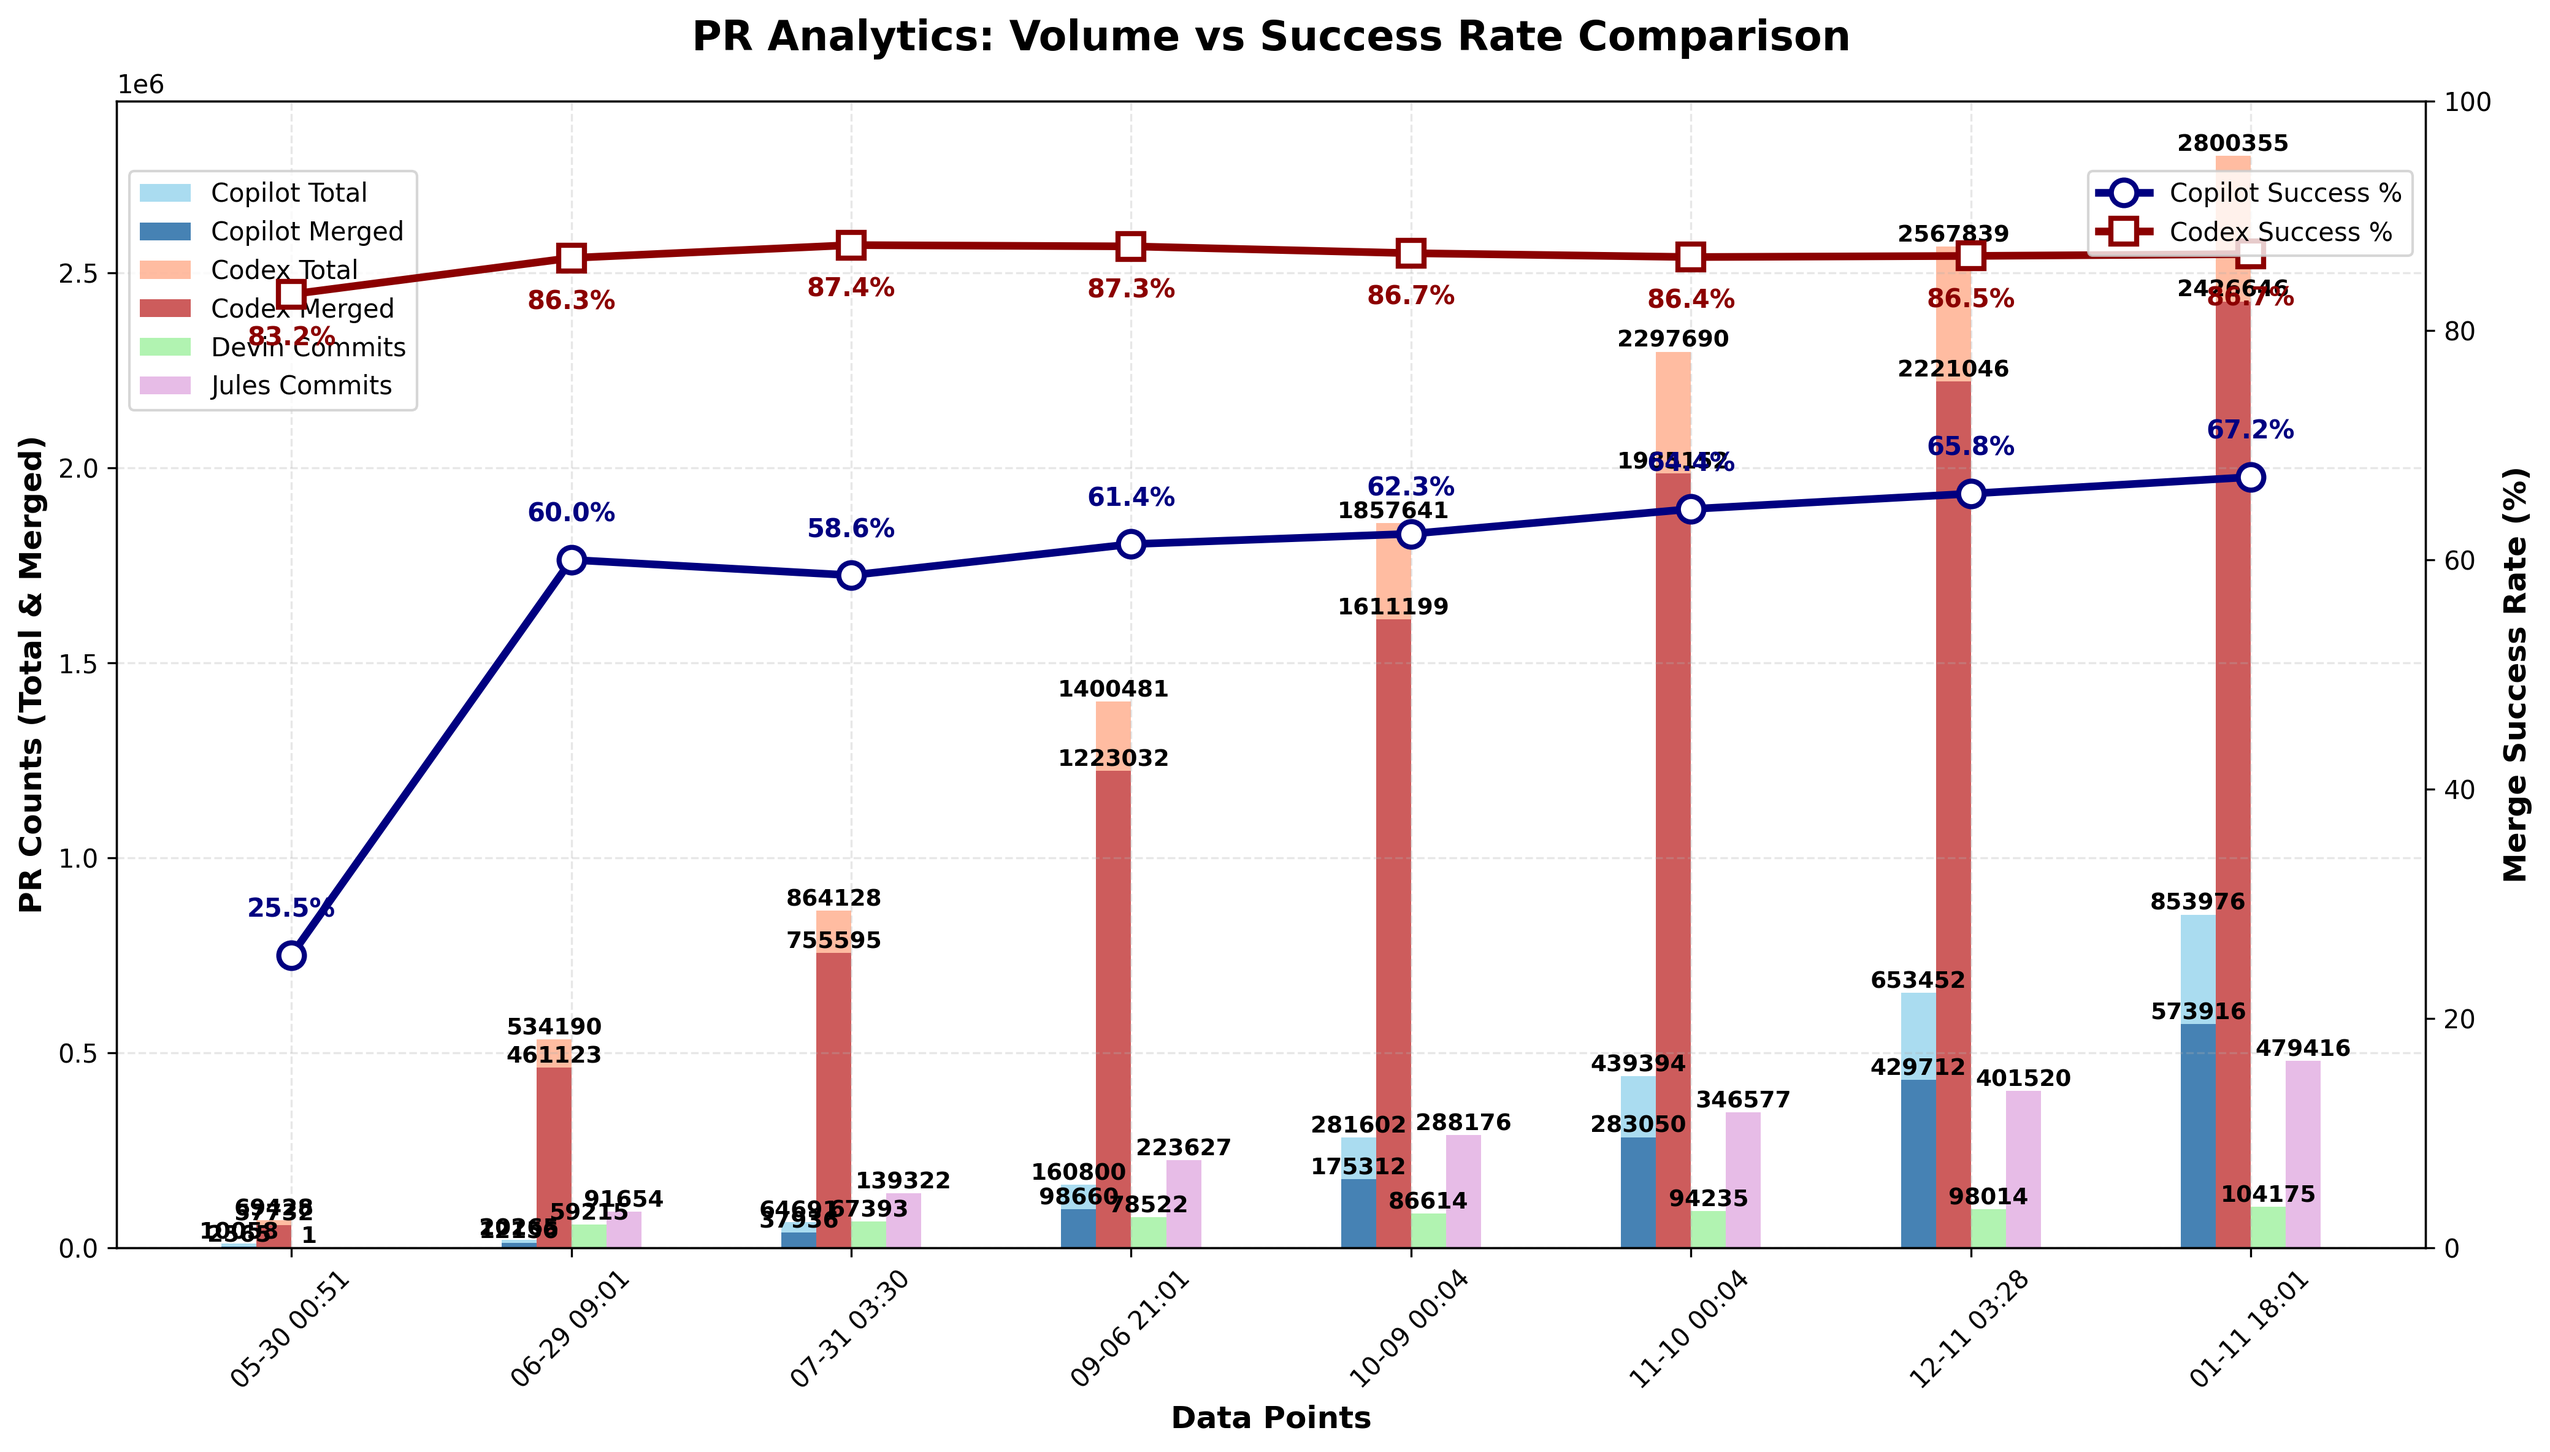
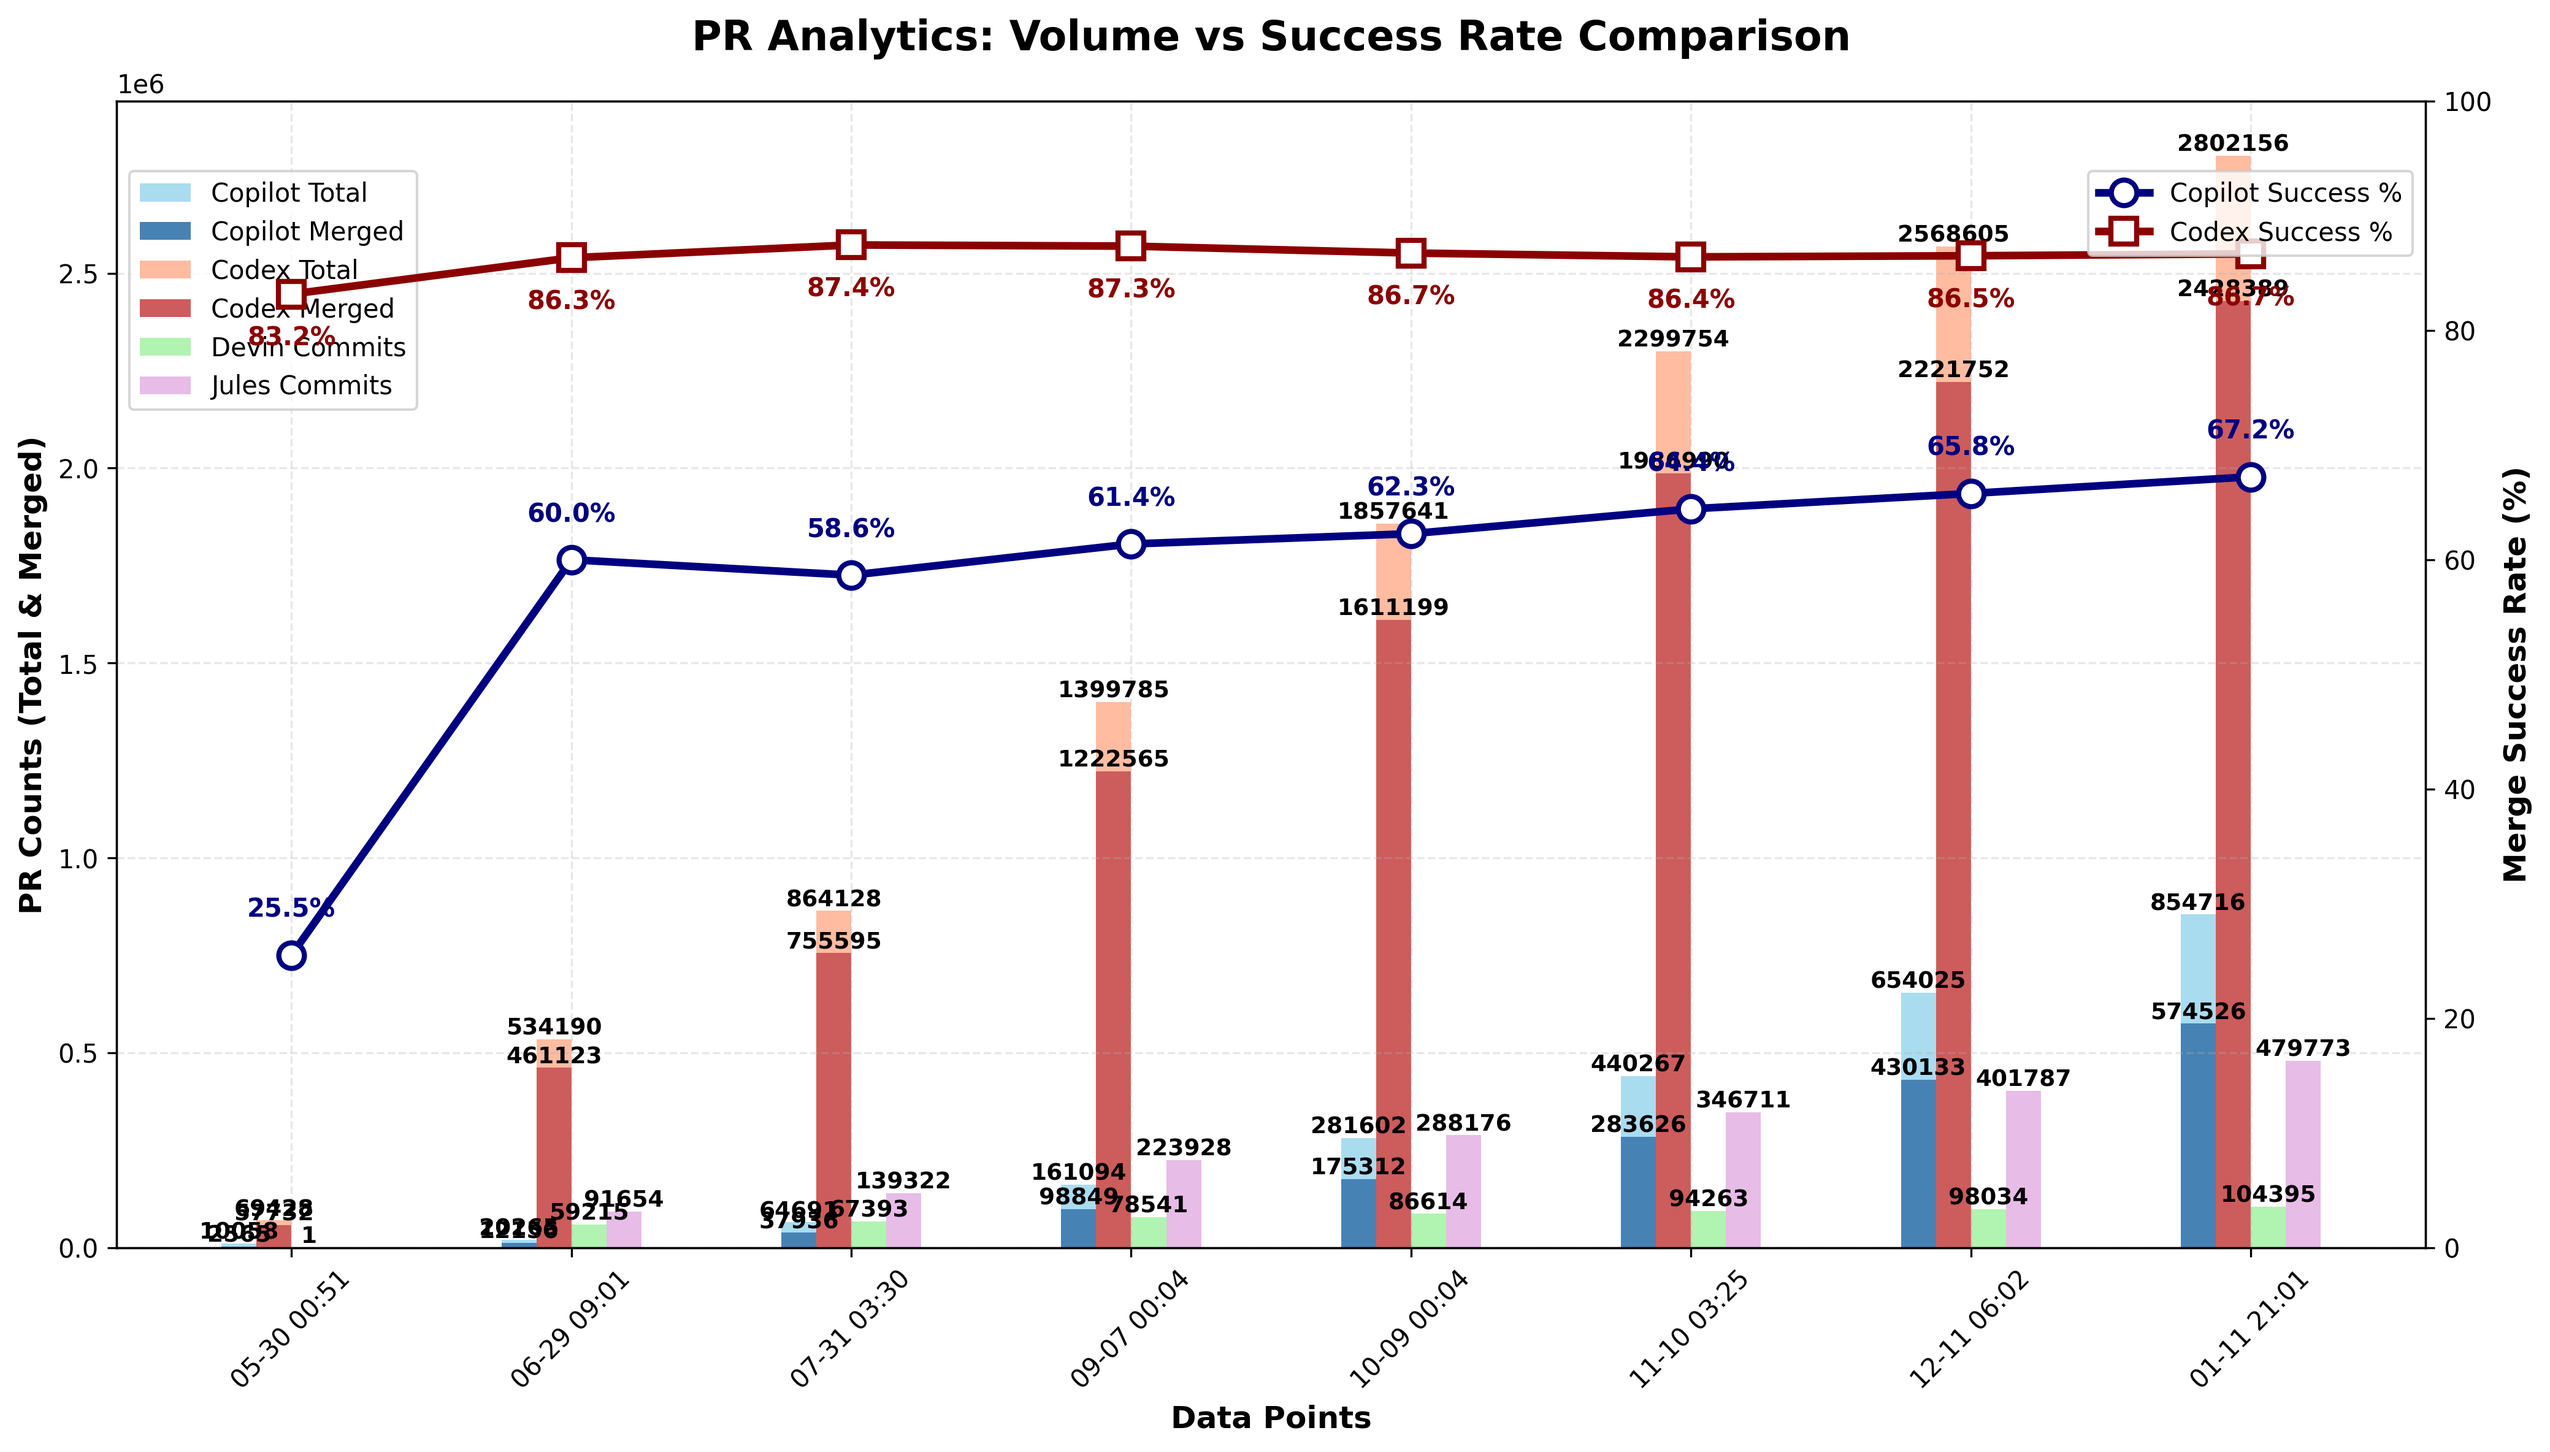
chore: update PR‑approval chart

diff --git a/docs/index.html b/docs/index.html
@@ -1746,6 +1746,7 @@
                         <td>N/A</td>
                         <td>N/A</td>
                         <td>N/A</td>
+                        <td>N/A</td>
                     </tr>
                     <tr>
                         <td>Codex</td>
@@ -3450,27 +3451,28 @@
                         <td>N/A</td>
                         <td>N/A</td>
                         <td>N/A</td>
+                        <td>N/A</td>
                     </tr>
                 <tr>
                         <td>Devin</td>
                         <td>N/A</td>
                         <td>N/A</td>
                         <td>N/A</td>
-                        <td>104,175</td>
+                        <td>104,395</td>
                     </tr>
                     <tr>
                         <td>Jules</td>
                         <td>N/A</td>
                         <td>N/A</td>
                         <td>N/A</td>
-                        <td>479,416</td>
+                        <td>479,773</td>
                     </tr>
                     </tbody>
             </table>
         </section>
 
         <footer>
-            <p>Last updated: <span id="last-updated">January 11, 2026 18:01 UTC</span></p>
+            <p>Last updated: <span id="last-updated">January 11, 2026 21:01 UTC</span></p>
             <p><a href="https://github.com/aavetis/ai-pr-watcher">View on GitHub</a></p>
         </footer>
     </div>

diff --git a/README.md b/README.md
@@ -19,7 +19,7 @@ Explore the GitHub search queries used:
 
 | Service | Total PRs | Merged PRs | Merge Rate | Total Commits |
 | ------- | --------- | ---------- | ---------- | ------------- |
-| Copilot | 853,976 | 573,916 | 67.21% | N/A           |
-| Codex   | 2,800,355 | 2,426,646 | 86.65% | N/A           |
-| Devin   | N/A       | N/A        | N/A        | 104,175 |
-| Jules   | N/A       | N/A        | N/A        | 479,416 |
+| Copilot | 854,716 | 574,526 | 67.22% | N/A           |
+| Codex   | 2,802,156 | 2,428,389 | 86.66% | N/A           |
+| Devin   | N/A       | N/A        | N/A        | 104,395 |
+| Jules   | N/A       | N/A        | N/A        | 479,773 |
